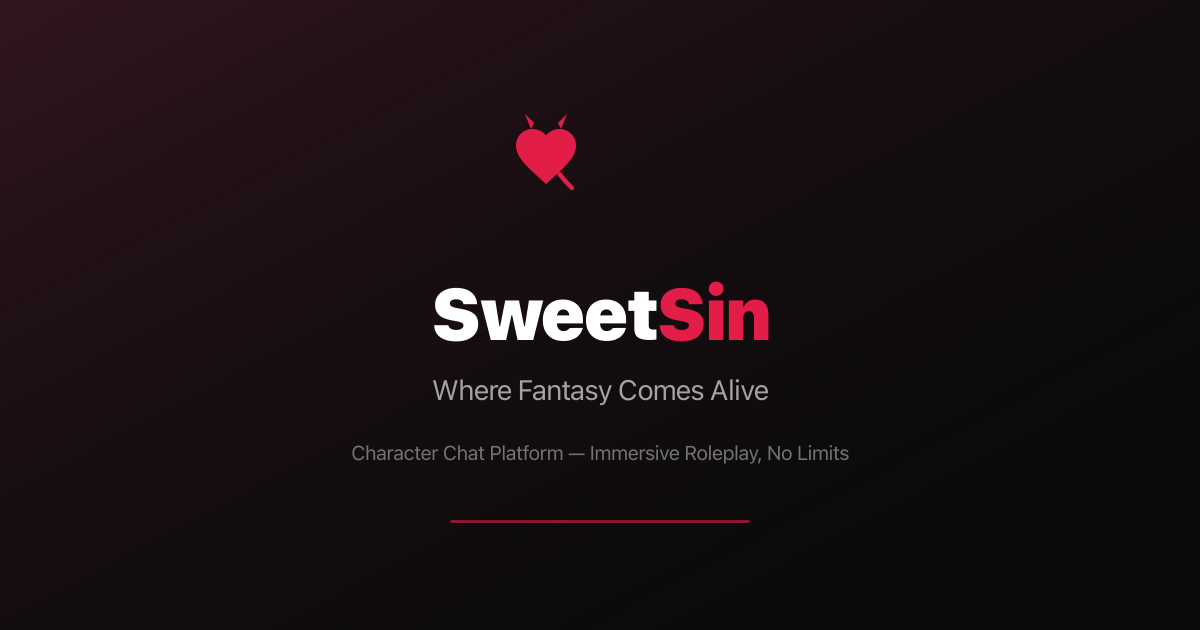
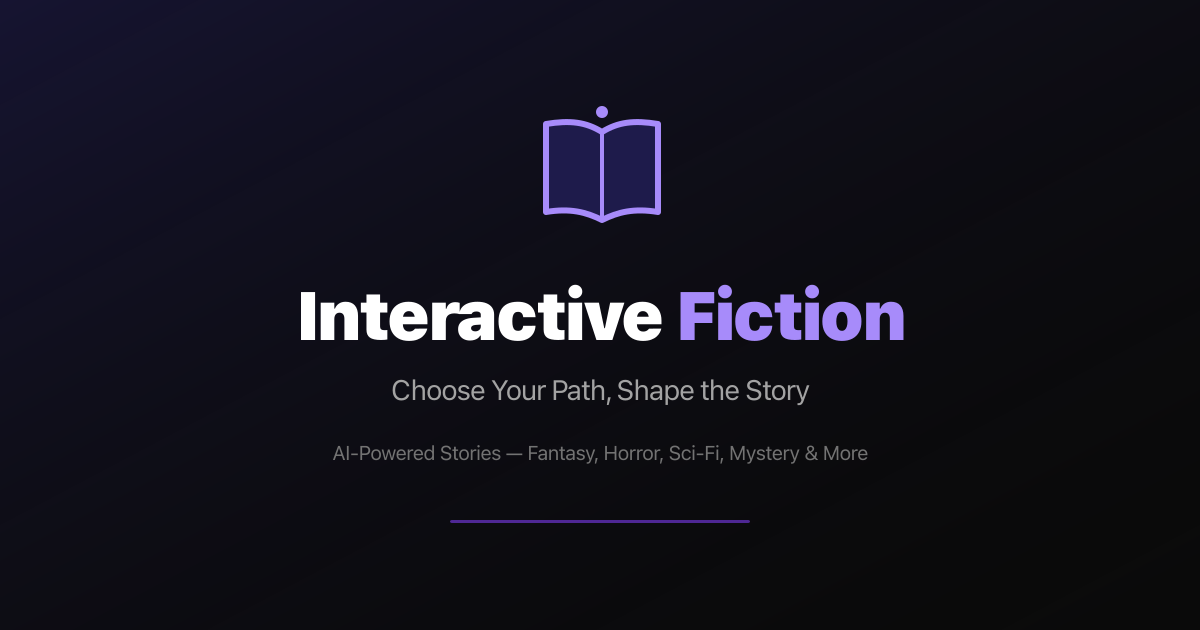
Restore Claude provider with prompt caching, add fiction branding
- Rewrite anthropic_provider.py with cache_control on system blocks (90% cheaper cache reads)
- Register Claude in registry, main.py, config (first in autonomous order)
- Block Claude from NSFW: skip in auto-fallback, 400 on explicit selection
- Add Claude to frontend model lists (paid group, nsfwOk: false, temp max 1.0)
- Replace SweetSin favicon/og-image with purple book icon for Interactive Fiction
- Generate apple-touch-icon.png for PWA

diff --git a/frontend-fiction/src/components/chat/GenerationSettingsModal.tsx b/frontend-fiction/src/components/chat/GenerationSettingsModal.tsx
@@ -133,6 +133,7 @@ const PROVIDER_LIMITS: Record<string, ParamLimits> = {
   qwen:       { temperature: { max: 2 }, top_k: false, frequency_penalty: { max: 1 }, presence_penalty: { max: 1 } },
   openai:     { temperature: { max: 2 }, top_k: false, frequency_penalty: { max: 2 }, presence_penalty: { max: 2 } },
   gemini:     { temperature: { max: 2 }, top_k: false, frequency_penalty: false, presence_penalty: false },
+  claude:     { temperature: { max: 1 }, top_k: false, frequency_penalty: false, presence_penalty: false },
 };
 
 function getProvider(modelId: string): string {
@@ -142,7 +143,7 @@ function getProvider(modelId: string): string {
   if (modelId.startsWith('together:') || modelId === 'together') return 'together';
   if (modelId.includes('/')) return 'openrouter';
   if (modelId === 'openrouter') return 'openrouter';
-  if (['deepseek', 'qwen', 'openai', 'gemini'].includes(modelId)) return modelId;
+  if (['deepseek', 'qwen', 'openai', 'gemini', 'claude'].includes(modelId)) return modelId;
   return 'default';
 }
 
@@ -220,6 +221,7 @@ export function GenerationSettingsModal({ currentModel, orModels, groqModels, ce
     { id: 'deepseek', label: 'DeepSeek', group: 'direct', nsfwOk: true },
     { id: 'qwen', label: 'Qwen (DashScope)', group: 'direct', nsfwOk: false },
     // Paid
+    { id: 'claude', label: 'Claude Sonnet', group: 'paid', nsfwOk: false },
     { id: 'gemini', label: 'Gemini', group: 'paid', nsfwOk: true },
     { id: 'openai', label: 'GPT-4o', group: 'paid', nsfwOk: true },
   ];

diff --git a/frontend/src/components/chat/GenerationSettingsModal.tsx b/frontend/src/components/chat/GenerationSettingsModal.tsx
@@ -133,6 +133,7 @@ const PROVIDER_LIMITS: Record<string, ParamLimits> = {
   qwen:       { temperature: { max: 2 }, top_k: false, frequency_penalty: { max: 1 }, presence_penalty: { max: 1 } },
   openai:     { temperature: { max: 2 }, top_k: false, frequency_penalty: { max: 2 }, presence_penalty: { max: 2 } },
   gemini:     { temperature: { max: 2 }, top_k: false, frequency_penalty: false, presence_penalty: false },
+  claude:     { temperature: { max: 1 }, top_k: false, frequency_penalty: false, presence_penalty: false },
 };
 
 function getProvider(modelId: string): string {
@@ -142,7 +143,7 @@ function getProvider(modelId: string): string {
   if (modelId.startsWith('together:') || modelId === 'together') return 'together';
   if (modelId.includes('/')) return 'openrouter';
   if (modelId === 'openrouter') return 'openrouter';
-  if (['deepseek', 'qwen', 'openai', 'gemini'].includes(modelId)) return modelId;
+  if (['deepseek', 'qwen', 'openai', 'gemini', 'claude'].includes(modelId)) return modelId;
   return 'default';
 }
 
@@ -220,6 +221,7 @@ export function GenerationSettingsModal({ currentModel, orModels, groqModels, ce
     { id: 'deepseek', label: 'DeepSeek', group: 'direct', nsfwOk: true },
     { id: 'qwen', label: 'Qwen (DashScope)', group: 'direct', nsfwOk: false },
     // Paid
+    { id: 'claude', label: 'Claude Sonnet', group: 'paid', nsfwOk: false },
     { id: 'gemini', label: 'Gemini', group: 'paid', nsfwOk: true },
     { id: 'openai', label: 'GPT-4o', group: 'paid', nsfwOk: true },
   ];

diff --git a/backend/app/llm/anthropic_provider.py b/backend/app/llm/anthropic_provider.py
@@ -3,6 +3,8 @@ import httpx
 import anthropic
 from app.llm.base import BaseLLMProvider, LLMMessage, LLMConfig, LLMResult
 
+DEFAULT_MODEL = "claude-sonnet-4-5-20250514"
+
 
 class AnthropicProvider(BaseLLMProvider):
     def __init__(self, api_key: str, proxy_url: str | None = None):
@@ -11,27 +13,41 @@ class AnthropicProvider(BaseLLMProvider):
             kwargs["http_client"] = httpx.AsyncClient(proxy=proxy_url)
         self.client = anthropic.AsyncAnthropic(**kwargs)
 
+    @staticmethod
+    def _prepare(messages: list[LLMMessage]) -> tuple[list[dict], list[dict]]:
+        """Split messages into system content blocks (with cache_control) and API messages."""
+        system_blocks: list[dict] = []
+        api_messages: list[dict] = []
+        for msg in messages:
+            if msg.role == "system":
+                system_blocks.append({
+                    "type": "text",
+                    "text": msg.content,
+                    "cache_control": {"type": "ephemeral"},
+                })
+            else:
+                api_messages.append({"role": msg.role, "content": msg.content})
+        return system_blocks, api_messages
+
     async def generate_stream(
         self,
         messages: list[LLMMessage],
         config: LLMConfig,
     ) -> AsyncIterator[str]:
-        system_prompt = ""
-        api_messages = []
-        for msg in messages:
-            if msg.role == "system":
-                system_prompt = msg.content
-            else:
-                api_messages.append({"role": msg.role, "content": msg.content})
+        system_blocks, api_messages = self._prepare(messages)
 
-        async with self.client.messages.stream(
-            model=config.model or "claude-sonnet-4-5-20250929",
-            max_tokens=config.max_tokens,
-            temperature=config.temperature,
-            top_p=config.top_p,
-            system=system_prompt,
-            messages=api_messages,
-        ) as stream:
+        kwargs: dict = {
+            "model": config.model or DEFAULT_MODEL,
+            "max_tokens": config.max_tokens,
+            "temperature": config.temperature,
+            "messages": api_messages,
+        }
+        if system_blocks:
+            kwargs["system"] = system_blocks
+        if config.top_p is not None:
+            kwargs["top_p"] = config.top_p
+
+        async with self.client.messages.stream(**kwargs) as stream:
             async for text in stream.text_stream:
                 yield text
 
@@ -48,26 +64,24 @@ class AnthropicProvider(BaseLLMProvider):
         messages: list[LLMMessage],
         config: LLMConfig,
     ) -> LLMResult:
-        system_prompt = ""
-        api_messages = []
-        for msg in messages:
-            if msg.role == "system":
-                system_prompt = msg.content
-            else:
-                api_messages.append({"role": msg.role, "content": msg.content})
+        system_blocks, api_messages = self._prepare(messages)
 
-        response = await self.client.messages.create(
-            model=config.model or "claude-sonnet-4-5-20250929",
-            max_tokens=config.max_tokens,
-            temperature=config.temperature,
-            top_p=config.top_p,
-            system=system_prompt,
-            messages=api_messages,
-        )
+        kwargs: dict = {
+            "model": config.model or DEFAULT_MODEL,
+            "max_tokens": config.max_tokens,
+            "temperature": config.temperature,
+            "messages": api_messages,
+        }
+        if system_blocks:
+            kwargs["system"] = system_blocks
+        if config.top_p is not None:
+            kwargs["top_p"] = config.top_p
+
+        response = await self.client.messages.create(**kwargs)
         usage = getattr(response, "usage", None)
         return LLMResult(
             content=response.content[0].text,
             prompt_tokens=getattr(usage, "input_tokens", 0) or 0,
             completion_tokens=getattr(usage, "output_tokens", 0) or 0,
-            model=config.model or "claude-sonnet-4-5-20250929",
+            model=config.model or DEFAULT_MODEL,
         )

diff --git a/backend/app/chat/router.py b/backend/app/chat/router.py
@@ -524,12 +524,20 @@ async def send_message(
         "gemini": "gemini-2.0-flash",
         "deepseek": "deepseek-chat",
         "qwen": "qwen3-32b",
+        "claude": "claude-sonnet-4-5-20250514",
     }
+    # Claude does not allow NSFW content — block in NSFW mode
+    _NSFW_BLOCKED_PROVIDERS = {"claude"}
     is_auto = model_name == "auto"
 
     if is_auto:
         provider_name = "auto"
         model_id = ""
+    elif model_name == "claude":
+        if content_rating == "nsfw":
+            raise HTTPException(status_code=400, detail="Claude is not available for NSFW content")
+        provider_name = "claude"
+        model_id = PROVIDER_MODELS["claude"]
     elif model_name.startswith("groq:"):
         provider_name = "groq"
         model_id = model_name[5:]
@@ -591,6 +599,9 @@ async def send_message(
             paid_mode = await _is_paid_mode(db)
             order_str = settings.auto_provider_order_paid if paid_mode else settings.auto_provider_order
         auto_order = [p.strip() for p in order_str.split(",") if p.strip()]
+        # Skip NSFW-blocked providers (e.g. Claude) when content is NSFW
+        if content_rating == "nsfw":
+            auto_order = [p for p in auto_order if p not in _NSFW_BLOCKED_PROVIDERS]
 
         async def event_stream():
             errors: list[str] = []

diff --git a/backend/app/llm/registry.py b/backend/app/llm/registry.py
@@ -6,6 +6,7 @@ from app.llm.deepseek_provider import DeepSeekProvider
 from app.llm.qwen_provider import QwenProvider
 from app.llm.groq_provider import GroqProvider
 from app.llm.cerebras_provider import CerebrasProvider
+from app.llm.anthropic_provider import AnthropicProvider
 from app.llm.together_provider import TogetherProvider
 
 _providers: dict[str, BaseLLMProvider] = {}
@@ -14,6 +15,7 @@ _providers: dict[str, BaseLLMProvider] = {}
 def init_providers(
     openai_key: str | None,
     gemini_key: str | None = None,
+    anthropic_key: str | None = None,
     openrouter_key: str | None = None,
     deepseek_key: str | None = None,
     qwen_key: str | None = None,
@@ -22,6 +24,8 @@ def init_providers(
     together_key: str | None = None,
     proxy_url: str | None = None,
 ):
+    if anthropic_key:
+        _providers["claude"] = AnthropicProvider(api_key=anthropic_key, proxy_url=proxy_url)
     if openai_key:
         _providers["openai"] = OpenAIProvider(api_key=openai_key, proxy_url=proxy_url)
     if gemini_key:

diff --git a/backend/app/config.py b/backend/app/config.py
@@ -16,7 +16,7 @@ class Settings(BaseSettings):
     default_model: str = "auto"
     auto_provider_order: str = "groq,cerebras,openrouter"
     auto_provider_order_paid: str = "together,groq,openrouter"
-    autonomous_provider_order: str = "openai,gemini,deepseek,together,groq,cerebras,openrouter"
+    autonomous_provider_order: str = "claude,openai,gemini,deepseek,together,groq,cerebras,openrouter"
     proxy_url: str | None = None  # e.g. http://user:pass@host:port
     admin_emails: str = ""  # comma-separated list of admin emails
     smtp_host: str | None = None

diff --git a/backend/app/main.py b/backend/app/main.py
@@ -30,6 +30,7 @@ async def lifespan(app: FastAPI):
     init_providers(
         openai_key=settings.openai_api_key,
         gemini_key=settings.gemini_api_key,
+        anthropic_key=settings.anthropic_api_key,
         openrouter_key=settings.openrouter_api_key,
         deepseek_key=settings.deepseek_api_key,
         qwen_key=settings.qwen_api_key,
